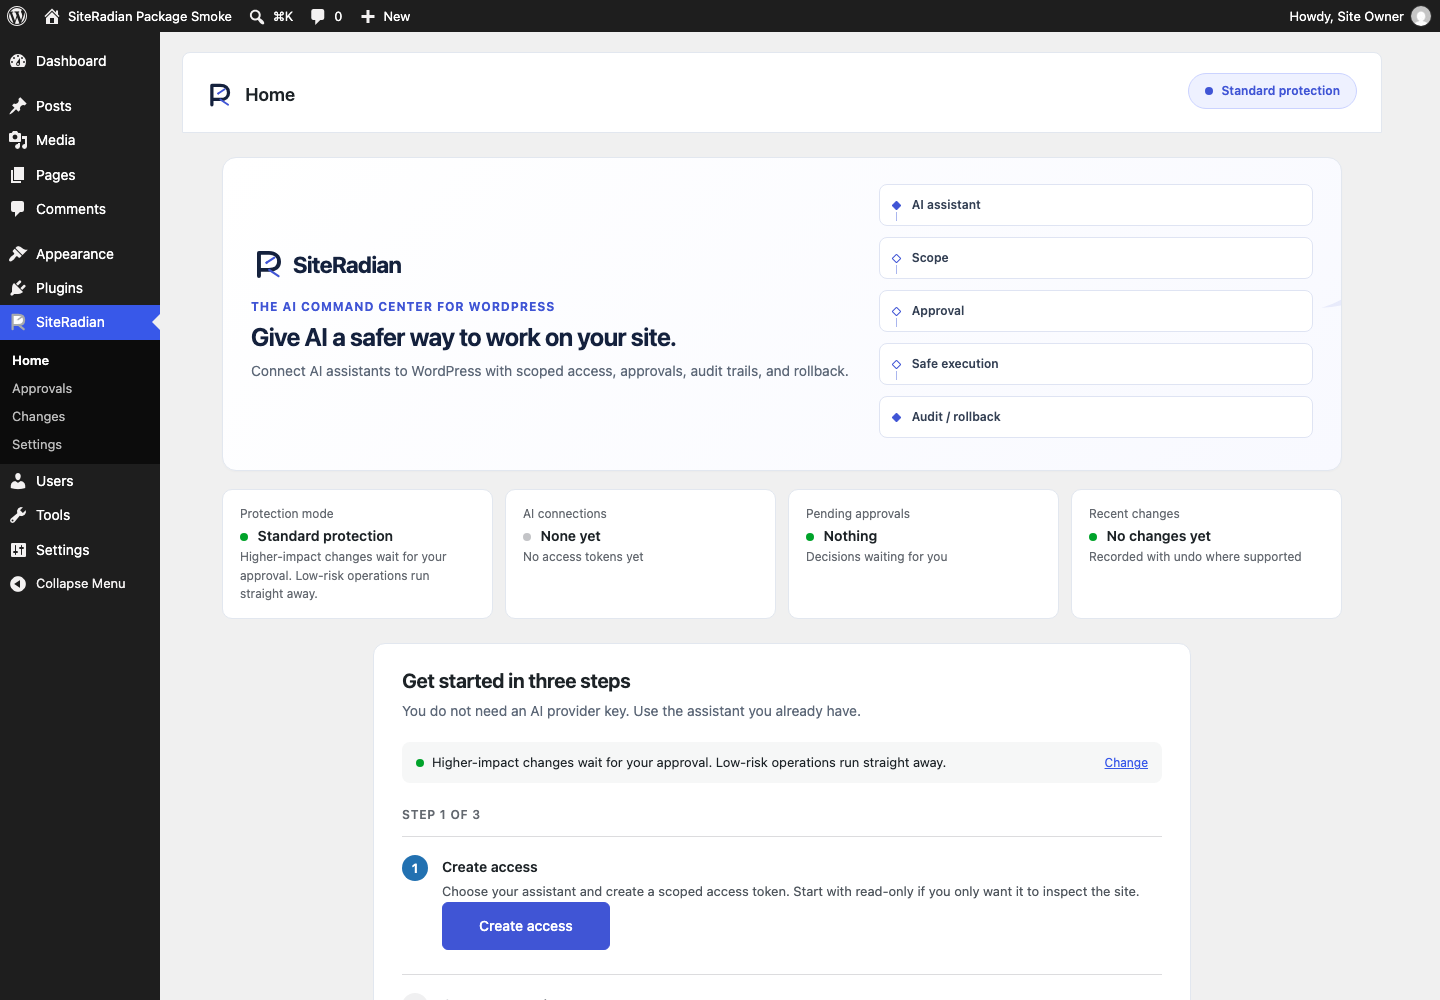
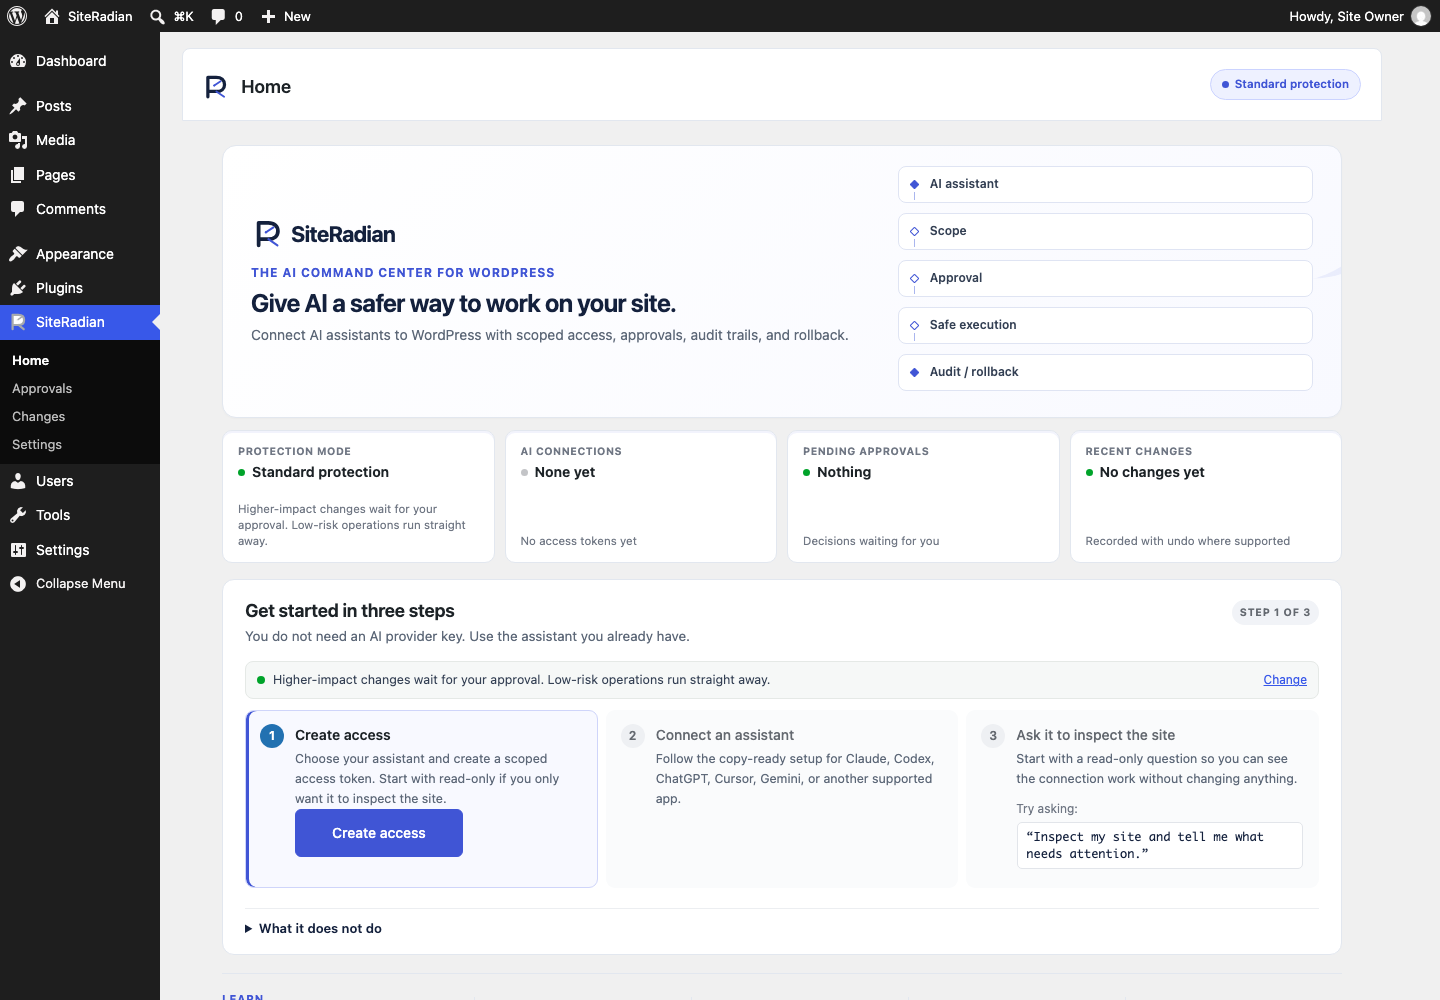
polish: refine SiteRadian Home dashboard

diff --git a/includes/Admin/views/command-home.php b/includes/Admin/views/command-home.php
@@ -262,7 +262,7 @@ foreach ( $wpcc_steps as $wpcc_i => $wpcc_s ) {
 		// is already protected; the customer should know that and be able to change
 		// it, without being told they did it.
 		?>
-		<p class="wpcc-setup__protection">
+		<p class="wpcc-setup__protection <?php echo $wpcc_protected ? 'is-ok' : 'is-warn'; ?>">
 			<span class="wpcc-setup__protection-dot <?php echo $wpcc_protected ? 'is-ok' : 'is-warn'; ?>" aria-hidden="true"></span>
 			<?php
 			if ( $wpcc_protected ) {
@@ -673,29 +673,34 @@ foreach ( $wpcc_steps as $wpcc_i => $wpcc_s ) {
    full canvas rather than pinned to the left of it. Left-pinned, a 620px setup
    column inside a 900px block inside a 1200px shell left ~500px of dead space on
    one side only, which reads as a layout mistake rather than as composition. */
-.wpcc-home { max-width: 1120px; margin-inline: auto; color:var(--wpcc-text-primary,#14213d); }
-.wpcc-home__hero { position:relative; overflow:hidden; display:grid; grid-template-columns:minmax(0,1.16fr) minmax(300px,.84fr); gap:28px; align-items:center; margin:0 0 18px; padding:24px 28px; background:linear-gradient(135deg,#fff 0%,#f8f9ff 100%); border:1px solid var(--wpcc-border-subtle,#e2e7ef); border-radius:14px; box-shadow:0 1px 2px rgba(16,24,40,.025); }
+.wpcc-home { max-width:1120px; margin-inline:auto; color:var(--wpcc-text-primary,#14213d); }
+/* Home has no tabs or subtitle, so the shared shell can be optically tighter here
+   without changing the header on any other SiteRadian screen. */
+body.toplevel_page_wp-command-center .wpcc-shell__bar { align-items:center; margin-top:16px; padding:16px 20px; }
+body.toplevel_page_wp-command-center .wpcc-shell__tools { align-items:center; }
+body.toplevel_page_wp-command-center .wpcc-shell__posture { gap:6px; padding:5px 11px; font-size:11.5px; }
+body.toplevel_page_wp-command-center .wpcc-shell__posture::before { width:7px; height:7px; }
+.wpcc-home__hero { position:relative; overflow:hidden; display:grid; grid-template-columns:minmax(0,1.2fr) minmax(292px,.8fr); gap:24px; align-items:center; margin:0 0 12px; padding:20px 28px; background:linear-gradient(135deg,#fff 0%,#f8f9ff 100%); border:1px solid var(--wpcc-border-subtle,#e2e7ef); border-radius:14px; box-shadow:0 1px 2px rgba(16,24,40,.025); }
 /* A bounded radius, not a decorative bullseye: one measured arc and its command
    origin echo the mark without turning the dashboard into a marketing page. */
-.wpcc-home__hero::after { content:""; position:absolute; right:-68px; top:-96px; width:250px; height:250px; border:1px solid rgba(64,85,213,.11); border-left-color:transparent; border-bottom-color:transparent; border-radius:50%; box-shadow:32px 32px 0 -31px rgba(64,85,213,.09); transform:rotate(-12deg); pointer-events:none; }
+.wpcc-home__hero::after { content:""; position:absolute; right:-58px; top:-102px; width:238px; height:238px; border:1px solid rgba(64,85,213,.11); border-left-color:transparent; border-bottom-color:transparent; border-radius:50%; box-shadow:28px 28px 0 -27px rgba(64,85,213,.08); transform:rotate(-12deg); pointer-events:none; }
 .wpcc-home__hero-copy,.wpcc-home__flow { position:relative; z-index:1; }
-.wpcc-home__logo { display:block; width:198px; height:auto; margin:0 0 15px; }
+.wpcc-home__logo { display:block; width:190px; height:auto; margin:0 0 12px; }
 .wpcc-app .wpcc-home__descriptor { margin:0 0 6px; font-size:12px; line-height:1.4; font-weight:700; letter-spacing:.075em; text-transform:uppercase; color:#4055d5; }
-.wpcc-home__promise { margin:0 0 8px!important; max-width:650px; font-size:25px; line-height:1.2!important; font-weight:650; letter-spacing:-.025em; color:#14213d; }
+.wpcc-home__promise { margin:0 0 7px!important; max-width:650px; font-size:25px; line-height:1.18!important; font-weight:650; letter-spacing:-.025em; color:#14213d; }
 .wpcc-home__support { margin:0!important; max-width:620px; font-size:14px; line-height:1.55!important; color:#5d6878; }
-.wpcc-home__flow { list-style:none; margin:0; padding:2px 0; display:grid; gap:5px; }
-.wpcc-home__flow li { position:relative; display:flex; align-items:center; min-height:30px; padding:5px 10px 5px 32px; border:1px solid #dfe4f3; border-radius:8px; background:rgba(255,255,255,.88); color:#344054; font-size:12px; font-weight:600; }
-.wpcc-home__flow li::before { content:""; position:absolute; left:13px; width:7px; height:7px; border:1.5px solid #4055d5; border-radius:1px; background:#fff; box-sizing:border-box; transform:rotate(45deg); }
+.wpcc-home__flow { list-style:none; margin:0; padding:0; display:grid; gap:4px; }
+.wpcc-home__flow li { position:relative; display:flex; align-items:center; min-height:29px; padding:3px 10px 3px 31px; border:1px solid #dfe4f3; border-radius:8px; background:rgba(255,255,255,.9); color:#344054; font-size:12px; line-height:1.4; font-weight:600; }
+.wpcc-home__flow li::before { content:""; position:absolute; left:12px; width:7px; height:7px; border:1.5px solid #4055d5; border-radius:1px; background:#fff; box-sizing:border-box; transform:rotate(45deg); }
 .wpcc-home__flow li:first-child::before,.wpcc-home__flow li:last-child::before { background:#4055d5; }
-.wpcc-home__flow li:not(:last-child)::after { content:""; position:absolute; left:16px; top:27px; width:1px; height:9px; background:#aab6ee; }
+.wpcc-home__flow li:not(:last-child)::after { content:""; position:absolute; left:15px; top:25px; width:1px; height:8px; background:#aab6ee; }
 /* ── Setup flow (pre-connection Home) ───────────────────────────────────────
- * Deliberately narrow and vertical: one column, one reading path, one button.
- * A grid would invite the eye to wander across choices the customer has not
- * earned yet. */
-.wpcc-setup { max-width: 760px; margin: 0 auto 28px; padding:24px 28px; background:#fff; border:1px solid var(--wpcc-border-subtle,#e2e7ef); border-radius:12px; }
-.wpcc-setup__prompt { margin: 12px 0 6px; font-size: 13px; }
-.wpcc-setup__prompt-label { color: #646970; margin-right: 6px; }
-.wpcc-setup__prompt code { background: #f0f0f1; padding: 3px 8px; border-radius: 4px; font-size: 13px; }
+ * One compact three-step rail keeps the active task prominent while showing
+ * the complete beginner journey; narrower screens restore one reading path. */
+.wpcc-setup { position:relative; max-width:none; margin:0 0 18px; padding:19px 22px 16px; background:#fff; border:1px solid var(--wpcc-border-subtle,#e2e7ef); border-radius:12px; }
+.wpcc-setup__prompt { margin:10px 0 5px; font-size:12px; }
+.wpcc-setup__prompt-label { display:block; margin:0 0 4px; color:#707784; }
+.wpcc-setup__prompt code { display:block; padding:6px 8px; white-space:normal; overflow-wrap:anywhere; background:#fff; border:1px solid #e2e5ea; border-radius:5px; font-size:12px; line-height:1.4; }
 .wpcc-setup__note { margin: 6px 0 0; font-size: 12px; color: #646970; }
 /* The first-run lockup, sized by HEIGHT so the wordmark lands at a known size.
    It used to be capped by width (max-width:248px) against an artwork whose 456px
@@ -710,41 +715,45 @@ foreach ( $wpcc_steps as $wpcc_i => $wpcc_s ) {
 /* First-run is the one screen that earns a real headline. The CDS type scale
    caps h2 at 16px for dense operator screens, which is right everywhere else
    and wrong here — this is the product introducing itself. Scoped override. */
-.wpcc-app .wpcc-setup__title { font-size: 20px; line-height: 1.3; margin: 0 0 6px; letter-spacing: -0.015em; font-weight: 650; }
+.wpcc-app .wpcc-setup__title { font-size:18px; line-height:1.3; margin:0 110px 4px 0; letter-spacing:-.015em; font-weight:650; }
 /* max-width caps the measure so the lede stays readable; the rest is unchanged. */
-.wpcc-setup__lede { font-size: 14px; line-height: 1.6; color: #5d6878; margin: 0 0 20px; max-width: 48em; }
-.wpcc-setup__protection { display:flex; align-items:center; gap:8px; flex-wrap:wrap; margin:0 0 22px; padding:10px 14px; background:#f6f7f7; border-radius:8px; font-size:13px; color:#1d2327; }
+.wpcc-setup__lede { font-size:13.5px; line-height:1.55; color:#5d6878; margin:0 110px 13px 0; max-width:48em; }
+.wpcc-setup__protection { display:flex; align-items:center; gap:8px; flex-wrap:wrap; margin:0 0 11px; padding:8px 11px; background:#f6f8f7; border:1px solid #e5e9e6; border-radius:8px; font-size:12.5px; color:#344054; }
+.wpcc-setup__protection.is-warn { background:#fff9ec; border-color:#ecd69f; color:#5f4712; }
 .wpcc-setup__protection a { margin-left:auto; font-size:12px; }
 .wpcc-setup__protection-dot { width:8px; height:8px; border-radius:50%; background:#c3c4c7; flex:0 0 auto; }
 .wpcc-setup__protection-dot.is-ok { background:#00a32a; }
 .wpcc-setup__protection-dot.is-warn { background:#dba617; }
-.wpcc-setup__progress { font-size: 12px; font-weight: 600; letter-spacing: .06em; text-transform: uppercase; color: #646970; margin: 0 0 12px; }
-.wpcc-setup__steps { list-style: none; margin: 0; padding: 0; counter-reset: none; }
-.wpcc-setup__step { position: relative; display: flex; gap: 14px; padding: 18px 0; border-top: 1px solid #dcdcde; }
-.wpcc-setup__step:last-child { border-bottom: 1px solid #dcdcde; }
-.wpcc-setup__marker { flex: 0 0 auto; display: inline-flex; align-items: center; justify-content: center; width: 26px; height: 26px; border-radius: 999px; font-size: 13px; font-weight: 600; background: #f0f0f1; color: #646970; }
+.wpcc-setup__progress { position:absolute; top:20px; right:22px; margin:0; padding:4px 8px; border-radius:999px; background:#f1f3f7; font-size:10.5px; line-height:1.4; font-weight:700; letter-spacing:.065em; text-transform:uppercase; color:#646970; }
+.wpcc-setup__steps { list-style:none; margin:0; padding:0; display:grid; grid-template-columns:repeat(3,minmax(0,1fr)); gap:8px; align-items:stretch; counter-reset:none; }
+.wpcc-setup__step { position:relative; display:flex; gap:11px; min-width:0; min-height:148px; padding:13px 14px; border:1px solid transparent; border-radius:9px; background:#fafbfc; }
+.wpcc-setup__step.is-active { background:#f8f9ff; border-color:#cfd5fa; box-shadow:inset 3px 0 0 #4055d5; }
+.wpcc-setup__step.is-done { background:#f8fbf9; }
+.wpcc-setup__marker { flex:0 0 auto; display:inline-flex; align-items:center; justify-content:center; width:24px; height:24px; border-radius:999px; font-size:12px; font-weight:650; background:#eef0f3; color:#646970; }
 .wpcc-setup__step.is-done .wpcc-setup__marker { background: #edfaef; color: #00a32a; }
 .wpcc-setup__step.is-active .wpcc-setup__marker { background: #2271b1; color: #fff; }
 .wpcc-setup__body { flex: 1; min-width: 0; }
-.wpcc-setup__step-title { margin: 2px 0 4px; font-size: 15px; font-weight: 600; }
+.wpcc-setup__step-title { margin:1px 0 4px; font-size:14px; line-height:1.35; font-weight:650; }
 .wpcc-setup__step.is-todo .wpcc-setup__step-title { color: #646970; font-weight: 500; }
-.wpcc-setup__step-text { margin: 0; font-size: 13px; line-height: 1.6; color: #50575e; }
-.wpcc-setup__step.is-done .wpcc-setup__step-text { color: #00a32a; }
-.wpcc-setup__cta { margin-top: 14px; }
-.wpcc-setup__limits { margin-top: 24px; }
+.wpcc-setup__step-text { margin:0; font-size:12.5px; line-height:1.5; color:#5d6878; }
+.wpcc-setup__step.is-done .wpcc-setup__step-text { color:#52665a; }
+.wpcc-setup__cta { margin-top:11px; }
+.wpcc-setup__cta.button-hero { min-height:36px; padding:4px 14px; font-size:13px; line-height:1.8; }
+.wpcc-setup__limits { margin-top:13px; }
 
 .wpcc-home__lede { max-width: 640px; margin: 0 0 24px; font-size: 15px; line-height: 1.6; color: #1d2327; }
 /* Equal thirds. auto-fit let the first tile absorb the slack, so the three
    status cells came out 468/312/312 — an uneven rhythm on the first thing
    anyone looks at. They carry equally important facts; they should read as
    equals. Falls back to stacking below 640px. */
-.wpcc-home__status { display:grid; grid-template-columns:repeat(4,minmax(0,1fr)); gap:12px; margin:0 0 24px; }
-.wpcc-home__stat { min-width:0; background:#fff; padding:15px 17px; border:1px solid var(--wpcc-border-subtle,#e2e7ef); border-radius:10px; }
-.wpcc-home__stat-label { display: block; font-size: 12px; color: #646970; margin-bottom: 4px; }
-.wpcc-home__stat-value { display: block; font-size: 14px; font-weight: 600; color: #1d2327; text-decoration: none; }
+.wpcc-home__status { display:grid; grid-template-columns:repeat(4,minmax(0,1fr)); grid-auto-rows:1fr; gap:10px; margin:0 0 16px; }
+.wpcc-home__stat { min-width:0; min-height:105px; display:flex; flex-direction:column; background:#fff; padding:13px 15px; border:1px solid var(--wpcc-border-subtle,#e2e7ef); border-radius:10px; box-shadow:inset 0 2px 0 rgba(64,85,213,.07); }
+.wpcc-home__stat-label { display:block; margin-bottom:5px; font-size:10.5px; line-height:1.35; font-weight:700; letter-spacing:.045em; text-transform:uppercase; color:#707784; }
+.wpcc-home__stat-value { display:flex; align-items:center; gap:7px; font-size:14px; line-height:1.35; font-weight:650; color:#1d2327; text-decoration:none; }
 .wpcc-home__stat-value:hover { color: #4055d5; }
-.wpcc-home__stat-hint { display: block; font-size: 12px; color: #646970; margin-top: 3px; }
-.wpcc-home__dot { display: inline-block; width: 8px; height: 8px; border-radius: 50%; margin-right: 6px; vertical-align: middle; background: #c3c4c7; }
+.wpcc-home__stat-value:focus-visible { outline:2px solid #2271b1; outline-offset:3px; border-radius:2px; }
+.wpcc-home__stat-hint { display:block; margin-top:auto; padding-top:5px; font-size:11.5px; line-height:1.4; color:#707784; }
+.wpcc-home__dot { display:inline-block; flex:0 0 auto; width:7px; height:7px; border-radius:50%; margin:0; background:#c3c4c7; }
 .wpcc-home__dot.is-ok { background: #00a32a; }
 .wpcc-home__dot.is-warn { background: #dba617; }
 .wpcc-home__dot.is-idle { background: #c3c4c7; }
@@ -793,24 +802,27 @@ foreach ( $wpcc_steps as $wpcc_i => $wpcc_s ) {
 .wpcc-home__steps li { font-size: 13px; color: #50575e; line-height: 1.5; counter-increment: wpcc-step; }
 .wpcc-home__steps strong { display: block; color: #1d2327; margin-bottom: 2px; }
 .wpcc-home__steps strong::before { content: counter(wpcc-step) ". "; color: #2271b1; }
-.wpcc-home__limits { margin-top: 16px; border-top: 1px solid #f0f0f1; padding-top: 12px; }
+.wpcc-home__limits { margin-top:14px; border-top:1px solid #eceef1; padding-top:10px; }
 .wpcc-home__limits summary { cursor: pointer; font-size: 13px; font-weight: 600; }
+.wpcc-home__limits summary:focus-visible { outline:2px solid #2271b1; outline-offset:3px; border-radius:2px; }
 .wpcc-home__limits ul { margin: 10px 0 0 18px; color: #50575e; font-size: 13px; line-height: 1.6; }
 .wpcc-home__dismiss { margin: 14px 0 24px; }
-.wpcc-home__learn { display:grid; grid-template-columns:minmax(220px,.75fr) minmax(0,1.25fr); gap:28px; align-items:start; margin:26px 0 4px; padding:22px 24px; background:#f8fafc; border:1px solid var(--wpcc-border-subtle,#e2e7ef); border-radius:12px; }
+.wpcc-home__learn { display:grid; grid-template-columns:230px minmax(0,1fr); gap:22px; align-items:center; margin:18px 0 4px; padding:16px 0 0; background:transparent; border:0; border-top:1px solid var(--wpcc-border-subtle,#e2e7ef); }
 .wpcc-home__eyebrow { margin:0 0 4px!important; font-size:11px; font-weight:700; letter-spacing:.08em; text-transform:uppercase; color:#4055d5; }
-.wpcc-home__learn h2 { margin:0 0 6px; }
-.wpcc-home__learn > div > p:last-child { margin:0; color:#5d6878; font-size:13px; }
-.wpcc-home__learn-links { display:grid; grid-template-columns:repeat(2,minmax(0,1fr)); gap:8px; }
-.wpcc-home__learn-links a { display:block; min-width:0; padding:11px 12px; background:#fff; border:1px solid #e2e7ef; border-radius:8px; text-decoration:none; }
-.wpcc-home__learn-links a:hover { border-color:#aab6ee; background:#fdfdff; }
+.wpcc-home__learn h2 { margin:0 0 4px; font-size:15px; }
+.wpcc-home__learn > div > p:last-child { margin:0; color:#707784; font-size:12px; line-height:1.45; }
+.wpcc-home__learn-links { display:grid; grid-template-columns:repeat(4,minmax(0,1fr)); gap:0; }
+.wpcc-home__learn-links a { display:block; min-width:0; min-height:56px; padding:5px 12px; background:transparent; border:0; border-left:1px solid #e2e7ef; border-radius:0; text-decoration:none; }
+.wpcc-home__learn-links a:hover { background:#f8f9ff; }
+.wpcc-home__learn-links a:focus-visible { outline:2px solid #2271b1; outline-offset:2px; border-radius:4px; }
 .wpcc-home__learn-links strong,.wpcc-home__learn-links span { display:block; }
 .wpcc-home__learn-links strong { color:#14213d; font-size:13px; margin-bottom:2px; }
 .wpcc-home__learn-links span { color:#5d6878; font-size:11.5px; line-height:1.45; }
-@media (max-width:1100px) { .wpcc-home__status { grid-template-columns:repeat(2,minmax(0,1fr)); } }
-@media (max-width:900px) { .wpcc-home__hero { grid-template-columns:1fr; gap:20px; } .wpcc-home__flow { grid-template-columns:repeat(5,minmax(0,1fr)); gap:6px; } .wpcc-home__flow li { justify-content:center; padding:8px 6px; text-align:center; } .wpcc-home__flow li::before,.wpcc-home__flow li::after { display:none; } }
-@media (max-width:782px) { .wpcc-home__hero { padding:22px; } .wpcc-home__learn { grid-template-columns:1fr; gap:16px; } }
-@media (max-width:640px) { .wpcc-home__status,.wpcc-home__learn-links { grid-template-columns:1fr; } .wpcc-home__flow { grid-template-columns:1fr; } .wpcc-home__flow li { justify-content:flex-start; padding-left:34px; text-align:left; } .wpcc-home__flow li::before { display:block; } .wpcc-home__promise { font-size:22px; } .wpcc-setup { padding:20px; } }
+@media (max-width:1100px) { .wpcc-home__status { grid-template-columns:repeat(2,minmax(0,1fr)); } .wpcc-home__learn { grid-template-columns:1fr; gap:12px; } .wpcc-home__learn-links { grid-template-columns:repeat(2,minmax(0,1fr)); gap:8px; } .wpcc-home__learn-links a { padding:9px 11px; border:1px solid #e2e7ef; border-radius:8px; } }
+@media (max-width:960px) { .wpcc-setup__steps { grid-template-columns:1fr; gap:0; } .wpcc-setup__step { min-height:0; padding:12px 2px; background:transparent; border:0; border-top:1px solid #e3e5e8; border-radius:0; } .wpcc-setup__step:last-child { border-bottom:1px solid #e3e5e8; } .wpcc-setup__step.is-active { margin:0 -9px; padding:12px 11px; background:#f8f9ff; border:1px solid #cfd5fa; border-radius:8px; } }
+@media (max-width:900px) { .wpcc-home__hero { grid-template-columns:1fr; gap:17px; } .wpcc-home__flow { grid-template-columns:repeat(5,minmax(0,1fr)); gap:6px; } .wpcc-home__flow li { justify-content:center; padding:7px 6px; text-align:center; } .wpcc-home__flow li::before,.wpcc-home__flow li::after { display:none; } }
+@media (max-width:782px) { body.toplevel_page_wp-command-center .wpcc-shell__bar { margin-top:10px; padding:14px 16px; } body.toplevel_page_wp-command-center .wpcc-shell__tools { width:auto; margin-left:auto; } .wpcc-home__hero { padding:19px 20px; } }
+@media (max-width:640px) { .wpcc-home__status,.wpcc-home__learn-links { grid-template-columns:1fr; } .wpcc-home__flow { grid-template-columns:1fr; } .wpcc-home__flow li { justify-content:flex-start; padding-left:34px; text-align:left; } .wpcc-home__flow li::before { display:block; } .wpcc-home__promise { font-size:22px; } .wpcc-setup { padding:17px 16px 14px; } .wpcc-app .wpcc-setup__title,.wpcc-setup__lede { margin-right:0; } .wpcc-setup__progress { position:static; display:inline-block; margin:0 0 10px; } .wpcc-setup__protection a { margin-left:0; } }
 @media (prefers-reduced-motion:reduce) { .wpcc-home * { scroll-behavior:auto!important; transition:none!important; animation:none!important; } }
 </style>
 
